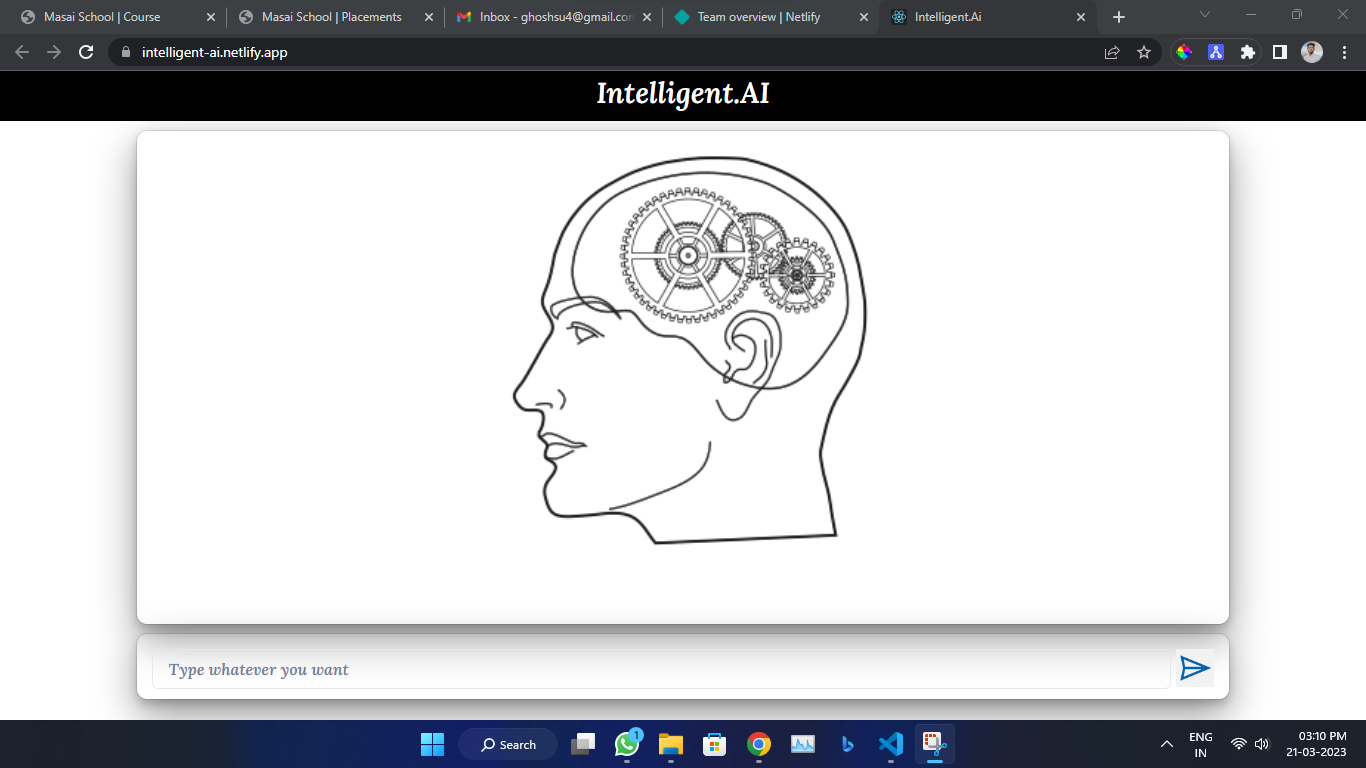
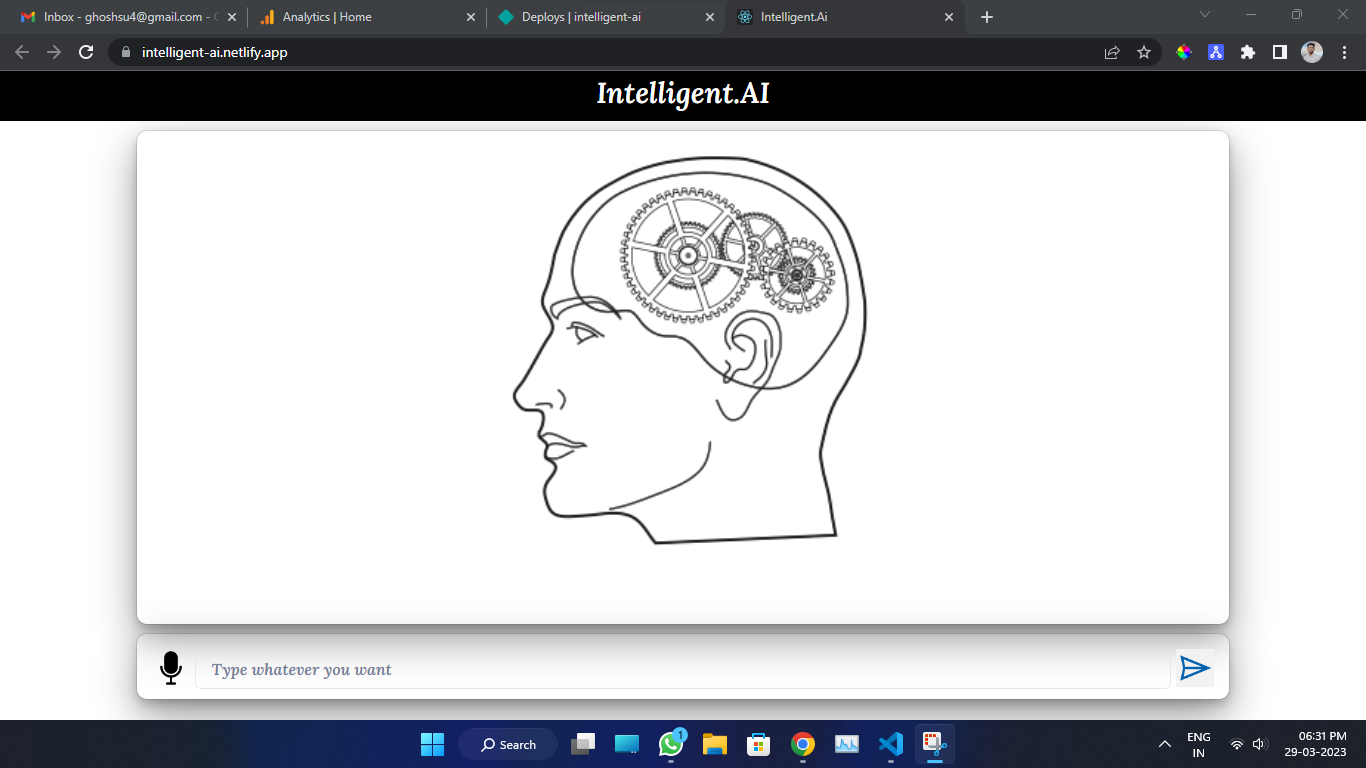
update readme images

diff --git a/README.md b/README.md
@@ -1,6 +1,6 @@
 # Inteligent.Ai
  
- * This is a Ai chat web app, here you can search anything what ever you want.
+ * This is a Ai chat web app, here you can search and speak  what ever you want.
 
  ### Tech Stack
  * React 
